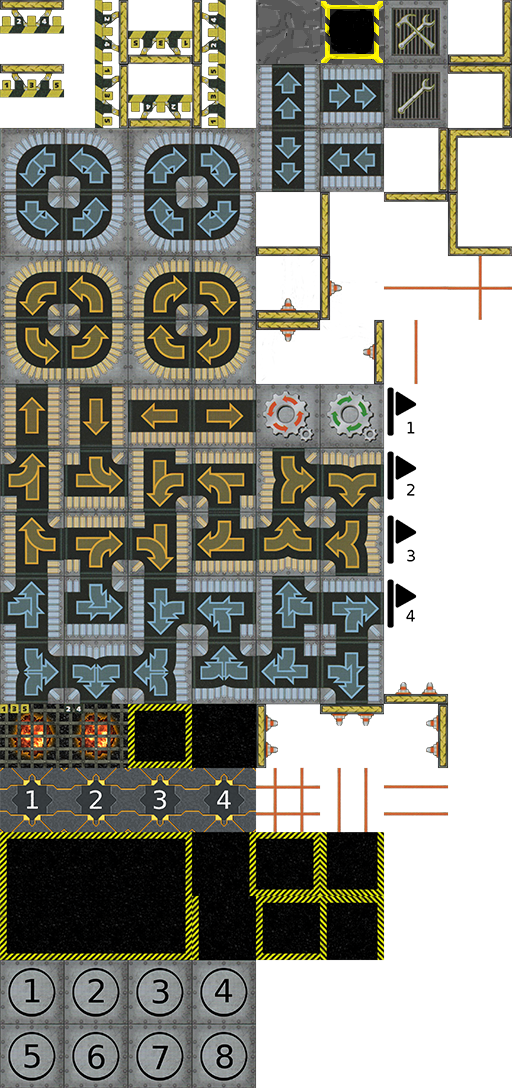
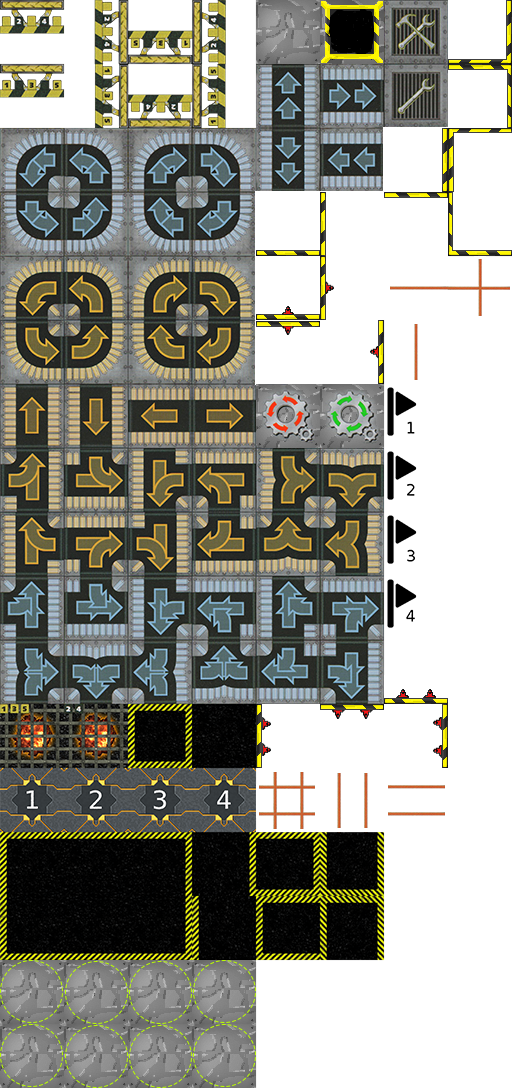
More pixelart added.
Wall, start and rotate tiles added.

diff --git a/src/main/java/inf112/ingenting/roborally/player/Robot.java b/src/main/java/inf112/ingenting/roborally/player/Robot.java
@@ -21,7 +21,7 @@ public class Robot extends Element {
      */
     public Robot(int x, int y, Board board, TiledMapTileLayer.Cell cell, BoardLayerType layer)
     {
-        super(x, y, ElementType.ROBOT, cell, layer);
+        super(x, y, cell, layer);
         this.board = board;
         this.direction = RobotDirection.NORTH;
     }
